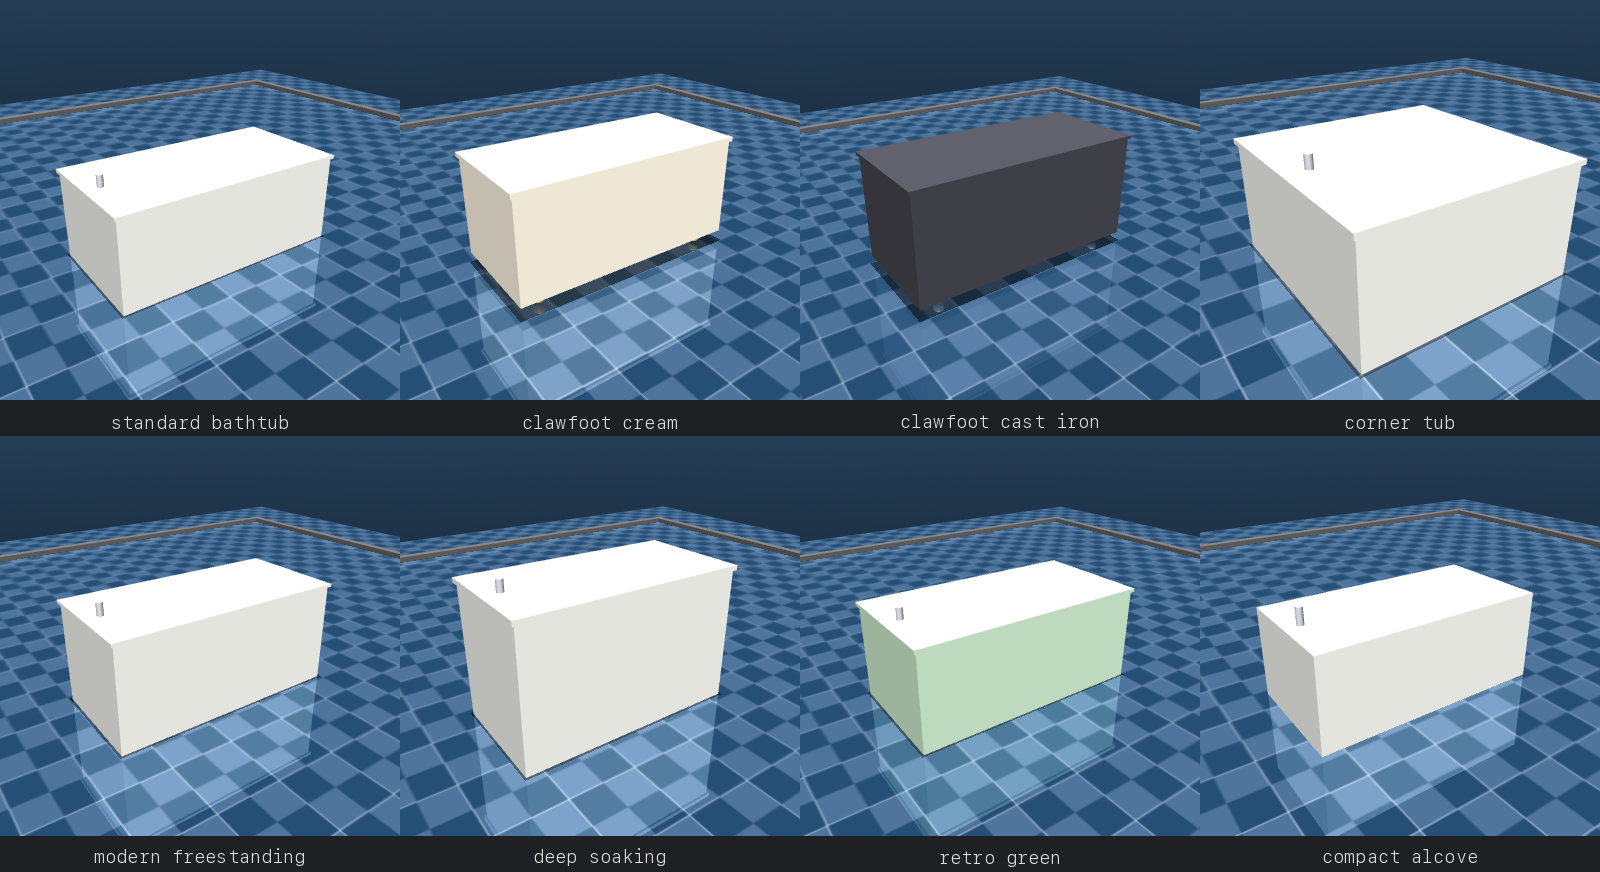
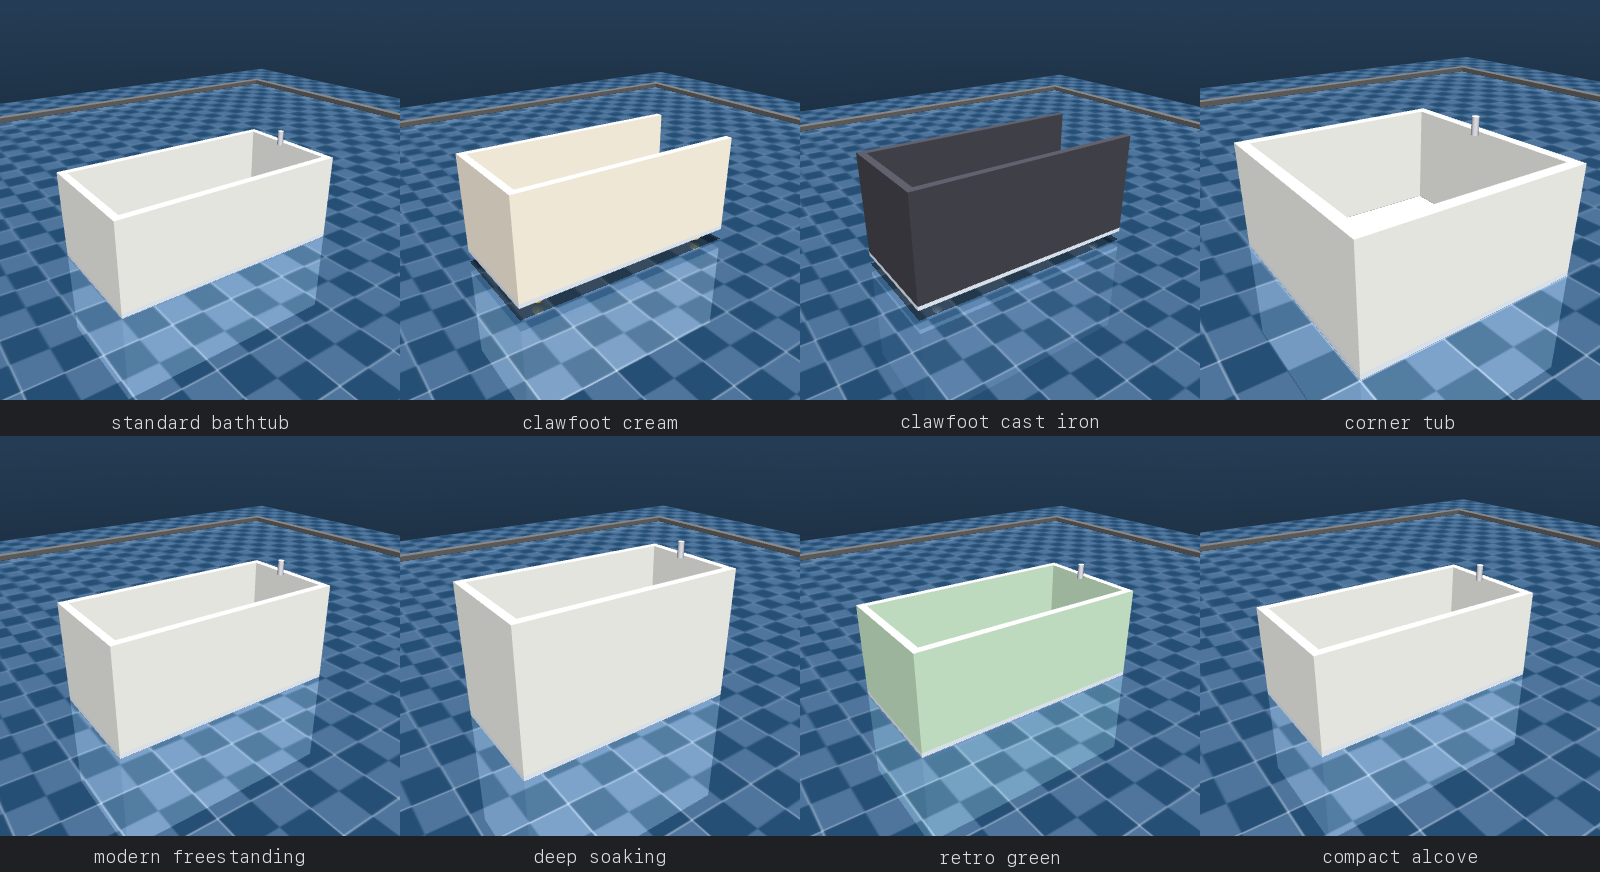
Rebuild bathtub from wall panels for visible hollow interior
The previous approach used a solid box shell with a contrasting slab on
top to suggest a basin — but it still read as a solid block from most
camera angles. Replaced with separate wall panels (floor + 2 side walls
+ end walls) so the hollow interior is actually visible.

The basin floor uses basin_color (slightly blue-white) to read as
porcelain/water inside the tub walls. Standard variants get front + back
end walls + faucet (6 prims). Clawfoot variants skip the back wall to
fit 4 feet within the 8-prim budget (8 prims total).

Removed has_rim/rim_thick params — the wall tops themselves create the
rim line, and the extra prim is better spent on structural walls.

diff --git a/scene_gen/concepts/bathtub.py b/scene_gen/concepts/bathtub.py
@@ -1,23 +1,21 @@
 """Bathtub -- chunky Sims 1-style bathroom tub.
 
-Distinct silhouettes for standard built-in, clawfoot (with visible feet),
-corner tub, and modern freestanding oval. The outer shell + a contrasting
-basin slab on top create the illusion of a hollow vessel; a rim lip, faucet
-cylinder, and optional feet complete the silhouette.
+Built from wall panels around a basin floor so the hollow interior is
+visible from the catalog camera angle.  MuJoCo renders solid volumes,
+so a single-box approach just looks like a block -- separate walls
+create actual negative space.
 
 Parameters:
     width:        Half-extent X (across the tub)
     depth:        Half-extent Y (length of the tub)
     height:       Half-extent Z (wall height)
-    wall_thick:   Wall thickness -- inset of the basin from the shell edge
-    has_rim:      Whether to add a visible rim/lip along the top edge
-    rim_thick:    Half-height of the rim slab
+    wall_thick:   Wall thickness for side/end panels
     has_feet:     Whether to add 4 clawfoot-style feet
     foot_radius:  Radius of each foot sphere
     foot_height:  Height the tub is raised on feet
     has_faucet:   Whether to add a faucet cylinder at one end
-    shell_color:  RGBA for the outer shell
-    basin_color:  RGBA for the inner basin (contrasting darker tone)
+    shell_color:  RGBA for the tub walls
+    basin_color:  RGBA for the basin floor (contrasting interior tone)
     accent_color: RGBA for feet/faucet accents
 """
 
@@ -52,8 +50,6 @@ class Params:
     depth: float = 0.80
     height: float = 0.30
     wall_thick: float = 0.05
-    has_rim: bool = True
-    rim_thick: float = 0.012
     has_feet: bool = False
     foot_radius: float = 0.035
     foot_height: float = 0.07
@@ -65,88 +61,103 @@ class Params:
 
 @lru_cache(maxsize=128)
 def generate(params: Params = Params()) -> tuple[Prim, ...]:
-    """Generate a bathtub (up to 8 prims: shell + basin + rim + faucet + feet).
+    """Generate a bathtub from wall panels around a basin floor.
 
-    Strategy for a readable silhouette with solid prims:
-    - Shell: the full outer body of the tub
-    - Basin: a dark-colored slab sitting *on top* of the shell, inset from the
-      edges, so the color contrast reads as "inside" from above / at an angle
-    - Rim: a slightly wider+longer thin slab on top, overhanging the shell to
-      create a visible lip that breaks the rectangular outline
-    - Faucet: a chunky cylinder poking up at one end
-    - Feet: 4 spheres under the shell for clawfoot variants
+    Built from separate panels so the hollow interior is visible:
+      - Basin floor (basin_color) — the bottom of the tub
+      - 2 long side walls (left/right along Y)
+      - End walls as budget allows (front visible to camera, back against room wall)
+      - Optional faucet, feet
+
+    Prim budget (max 8):
+      Standard:  floor + 2 sides + front + back + faucet = 6
+      Clawfoot:  floor + 2 sides + front + 4 feet = 8
     """
     prims: list[Prim] = []
 
-    # Base elevation: raised if tub has feet
     base_z = params.foot_height if params.has_feet else 0.0
+    w = params.width
+    d = params.depth
+    full_h = params.height * 2
     wt = params.wall_thick
+    hwt = wt / 2
 
-    # 1. Outer shell: the main tub body
-    shell = Prim(
-        GeomType.BOX,
-        (params.width, params.depth, params.height),
-        (0, 0, base_z + params.height),
-        params.shell_color,
-    )
-    prims.append(shell)
-
-    # 2. Basin interior: a dark slab sitting on top of the shell, inset by
-    #    wall_thick on each side. This makes the tub walls visible as a
-    #    contrasting frame around the darker basin when viewed from above.
-    basin_w = params.width - wt
-    basin_d = params.depth - wt
-    basin_half_h = 0.012  # thin slab
-    basin_z = base_z + params.height * 2 - basin_half_h
-    basin = Prim(
-        GeomType.BOX,
-        (basin_w, basin_d, basin_half_h),
-        (0, 0, basin_z),
-        params.basin_color,
-    )
-    prims.append(basin)
-
-    # 3. Rim: wider + longer than the shell, thin slab on top edge.
-    #    The overhang creates a visible lip / silhouette break.
-    if params.has_rim:
-        rim_overhang = 0.015
-        rim_z = base_z + params.height * 2 + params.rim_thick
-        rim = Prim(
+    # Floor: thin slab at the bottom, basin_color to read as interior
+    floor_ht = 0.015
+    prims.append(
+        Prim(
             GeomType.BOX,
-            (
-                params.width + rim_overhang,
-                params.depth + rim_overhang,
-                params.rim_thick,
-            ),
-            (0, 0, rim_z),
+            (w, d, floor_ht),
+            (0, 0, base_z + floor_ht),
+            params.basin_color,
+        )
+    )
+
+    # Wall height: from floor top to tub rim
+    floor_top = base_z + floor_ht * 2
+    wall_hh = (full_h - floor_ht * 2) / 2
+    wall_z = floor_top + wall_hh
+
+    # Left side wall (-X)
+    prims.append(
+        Prim(GeomType.BOX, (hwt, d, wall_hh), (-w + hwt, 0, wall_z), params.shell_color)
+    )
+
+    # Right side wall (+X)
+    prims.append(
+        Prim(GeomType.BOX, (hwt, d, wall_hh), (w - hwt, 0, wall_z), params.shell_color)
+    )
+
+    # Front end wall (-Y, camera-facing)
+    inner_w = w - wt  # avoid overlap with side walls
+    prims.append(
+        Prim(
+            GeomType.BOX,
+            (inner_w, hwt, wall_hh),
+            (0, -d + hwt, wall_z),
             params.shell_color,
         )
-        prims.append(rim)
+    )
 
-    # 4. Faucet: chunky cylinder sticking up at one end (negative Y = back)
-    if params.has_faucet:
-        faucet_h = 0.05  # half-height of faucet cylinder
-        faucet_z = base_z + params.height * 2 + faucet_h
-        faucet = Prim(
-            GeomType.CYLINDER,
-            (0.02, faucet_h, 0),
-            (0, -(params.depth - wt * 2), faucet_z),
-            params.accent_color,
+    # Back end wall (+Y, against room wall) — skip for clawfoot to save budget
+    if not params.has_feet:
+        prims.append(
+            Prim(
+                GeomType.BOX,
+                (inner_w, hwt, wall_hh),
+                (0, d - hwt, wall_z),
+                params.shell_color,
+            )
         )
-        prims.append(faucet)
 
-    # 5-8. Clawfoot feet: 4 spheres at corners, sitting on the floor.
-    if params.has_feet:
-        fx = params.width * 0.75
-        fy = params.depth * 0.80
-        for sx, sy in [(-1, -1), (1, -1), (-1, 1), (1, 1)]:
-            foot = Prim(
-                GeomType.SPHERE,
-                (params.foot_radius, 0, 0),
-                (sx * fx, sy * fy, params.foot_radius),
+    # Faucet: chunky cylinder at the back end
+    if params.has_faucet and len(prims) < 8:
+        faucet_hh = 0.05
+        faucet_z = base_z + full_h + faucet_hh
+        prims.append(
+            Prim(
+                GeomType.CYLINDER,
+                (0.02, faucet_hh, 0),
+                (0, d - wt * 2, faucet_z),
                 params.accent_color,
             )
-            prims.append(foot)
+        )
+
+    # Clawfoot feet: 4 spheres at corners
+    if params.has_feet:
+        fx = w * 0.75
+        fy = d * 0.80
+        for sx, sy in [(-1, -1), (1, -1), (-1, 1), (1, 1)]:
+            if len(prims) >= 8:
+                break
+            prims.append(
+                Prim(
+                    GeomType.SPHERE,
+                    (params.foot_radius, 0, 0),
+                    (sx * fx, sy * fy, params.foot_radius),
+                    params.accent_color,
+                )
+            )
 
     return tuple(prims)
 
@@ -162,8 +173,6 @@ VARIATIONS: dict[str, Params] = {
         depth=0.82,
         height=0.35,
         wall_thick=0.05,
-        has_rim=True,
-        rim_thick=0.015,
         has_feet=True,
         foot_radius=0.04,
         foot_height=0.08,
@@ -176,8 +185,6 @@ VARIATIONS: dict[str, Params] = {
         depth=0.85,
         height=0.38,
         wall_thick=0.05,
-        has_rim=True,
-        rim_thick=0.012,
         has_feet=True,
         foot_radius=0.035,
         foot_height=0.07,
@@ -191,36 +198,24 @@ VARIATIONS: dict[str, Params] = {
         depth=0.60,
         height=0.30,
         wall_thick=0.06,
-        has_rim=True,
-        rim_thick=0.014,
-        has_faucet=True,
     ),
     "modern freestanding": Params(
         width=0.36,
         depth=0.78,
         height=0.34,
         wall_thick=0.05,
-        has_rim=True,
-        rim_thick=0.01,
-        has_feet=False,
-        shell_color=PLASTIC_WHITE,
-        accent_color=METAL_CHROME,
     ),
     "deep soaking": Params(
         width=0.35,
         depth=0.70,
         height=0.42,
         wall_thick=0.05,
-        has_rim=True,
-        rim_thick=0.015,
     ),
     "retro green": Params(
         width=0.40,
         depth=0.80,
         height=0.32,
         wall_thick=0.05,
-        has_rim=True,
-        rim_thick=0.012,
         shell_color=RETRO_GREEN,
         basin_color=BASIN_INTERIOR,
         accent_color=METAL_CHROME,
@@ -229,8 +224,5 @@ VARIATIONS: dict[str, Params] = {
         width=0.36,
         depth=0.72,
         height=0.28,
-        wall_thick=0.05,
-        has_rim=False,
-        has_faucet=True,
     ),
 }
